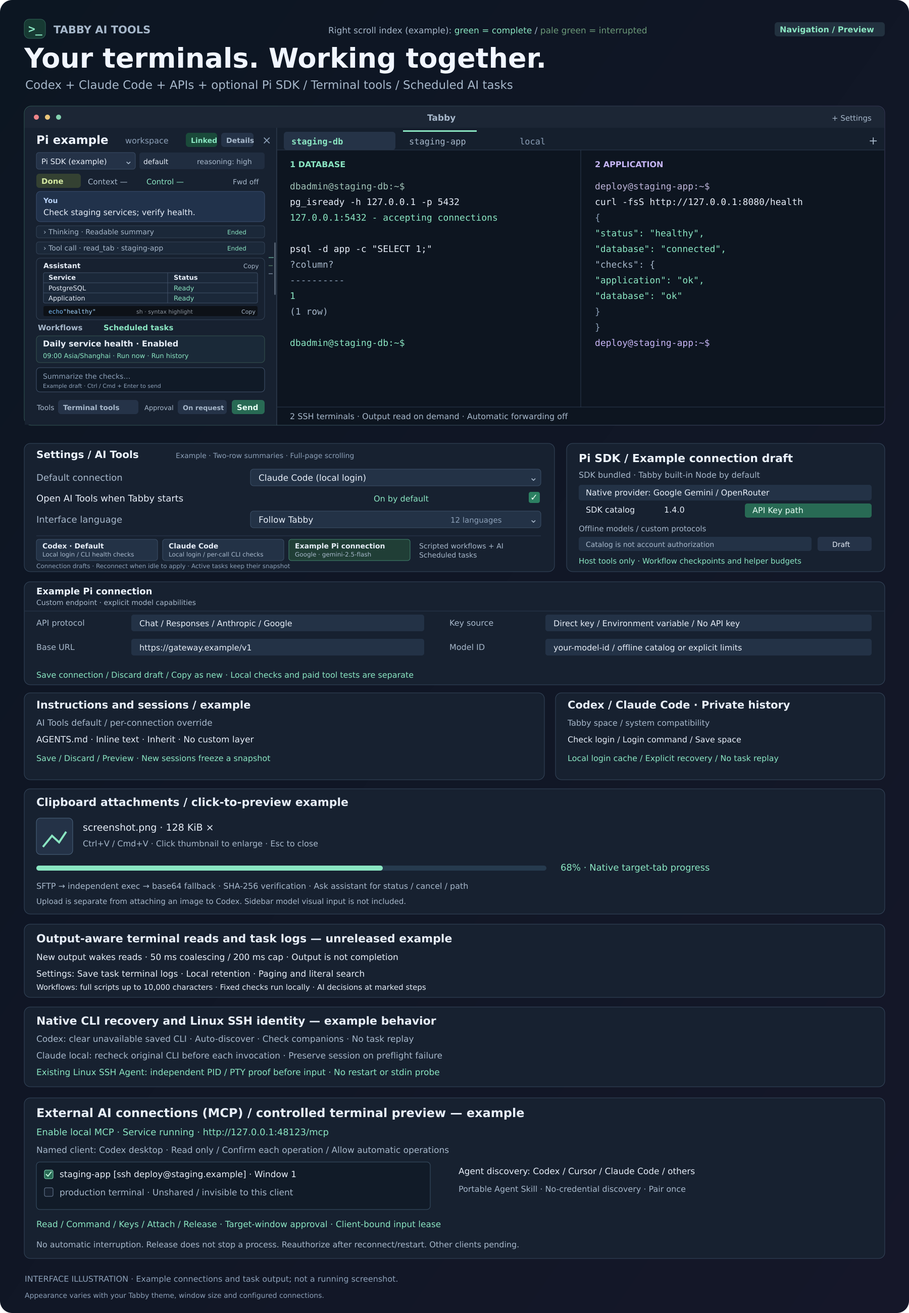
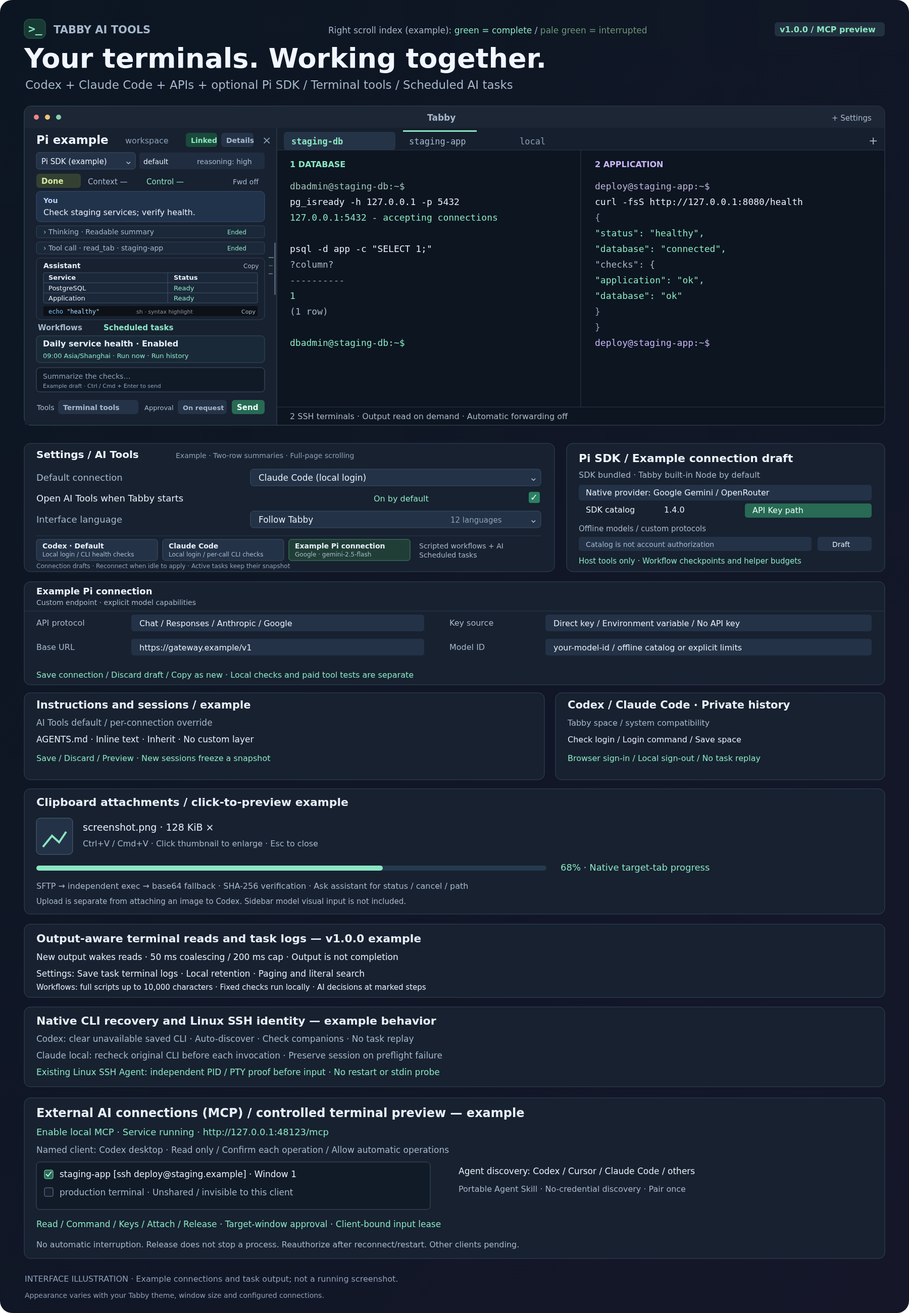
release: ship 1.0.0 MCP terminal connections and login fixes

diff --git a/test/session-space.test.js b/test/session-space.test.js
@@ -139,8 +139,9 @@ for (const engine of ['claude-code']) {
   })
 }
 
+const fixtureEpoch = Math.floor(Date.now() / 1000)
 function fixtureLogin (day, { user = 'same-user', account = 'same-workspace', owner = 'original-grant', expired = false } = {}) {
-  const claims = { 'https://api.openai.com/auth': { chatgpt_user_id: user }, exp: Math.floor(Date.now() / 1000) + (expired ? -60 : 3600), jti: day }
+  const claims = { 'https://api.openai.com/auth': { chatgpt_user_id: user }, exp: fixtureEpoch + (expired ? -60 : 3600), jti: day }
   return { auth_mode: 'chatgpt', tokens: { access_token: 'jwt.' + Buffer.from(JSON.stringify(claims)).toString('base64url') + '.fixture',
     refresh_token: 'fixture-refresh-' + day, login_owner_id: owner, account_id: account }, last_refresh: `2026-01-0${day}T00:00:00Z` }
 }
@@ -244,6 +245,36 @@ readline.createInterface({ input: process.stdin }).on('line', line => {
   assert.deepEqual(JSON.parse(await fs.promises.readFile(system, 'utf8')), fixtureLogin(3))
   await assert.rejects(client.refreshAuthentication(executable, a), /没有可用的更新凭据/)
   assert.equal(JSON.parse(await fs.promises.readFile(path.join(a.native, 'auth.json'))).tokens.access_token, 'private-login')
+})
+
+test('Codex browser login handles completion in the same stdout chunk as the start reply', async t => {
+  const root = await temporary(t)
+  t.mock.method(require('../src/codex-discovery.ts'), 'resolveCodexLaunch', async executable => ({ executable, env: { ...process.env, CODEX_HOME: root } }))
+  const executable = await launcher(root, 'fixture-login', `
+const readline = require('node:readline')
+readline.createInterface({ input: process.stdin }).on('line', line => {
+  const msg = JSON.parse(line)
+  if (msg.id === undefined) return
+  const result = msg.method === 'account/login/start' ? { loginId: 'immediate', authUrl: 'https://auth.openai.com/authorize' } : msg.method === 'account/read' ? { account: { type: 'chatgpt' } } : {}
+  const replies = [{ id: msg.id, result }]
+  if (msg.method === 'account/login/start') replies.push({ method: 'account/login/completed', params: { loginId: 'immediate', success: true } })
+  process.stdout.write(replies.map(value => JSON.stringify(value)).join('\\n') + '\\n')
+})`)
+  const client = new CodexClient(), controller = new AbortController()
+  t.after(() => client.close())
+  const deadline = setTimeout(() => controller.abort(), 15000)
+  t.after(() => clearTimeout(deadline))
+  const space = resolveSessionSpace(root, 'codex', privateSpaceConfig('codex'))
+  let opened = 0
+  await client.signIn(executable, space, () => opened++, controller.signal)
+  assert.equal(opened, 1)
+  assert.equal(controller.signal.aborted, false)
+  assert.equal(await fs.promises.readFile(path.join(space.native, '.tabby-codex-local-login'), 'utf8'), '1')
+  clearTimeout(deadline)
+  const cancelled = new AbortController()
+  const other = resolveSessionSpace(root, 'codex', { mode: 'tabby', spaceId: 'c'.repeat(32) })
+  await assert.rejects(client.signIn(executable, other, () => cancelled.abort(), cancelled.signal), /cancelled/)
+  assert.equal(fs.existsSync(path.join(other.native, '.tabby-codex-local-login')), false, 'cancellation wins even if completion was already received')
 })
 
 test('Claude auth and inference use the same private space; restart resumes there and foreign IDs are rejected', async t => {

diff --git a/src/codex-client.ts b/src/codex-client.ts
@@ -84,10 +84,17 @@ export class CodexClient extends EventEmitter {
     await this.connect(executable, space, this.capabilities)
     if (signal.aborted) throw new Error('Codex login cancelled.')
     let loginId: string | undefined
+    const earlyCompletions = new Map<string, boolean>()
     let finish!: (result: boolean) => void
     const completed = new Promise<boolean>(resolve => { finish = resolve })
     const onEvent = ({ method, params }: RpcMessage) => {
-      if (method === 'account/login/completed' && loginId && params?.loginId === loginId) finish(params.success === true)
+      if (method !== 'account/login/completed' || typeof params?.loginId !== 'string') return
+      if (loginId) {
+        if (params.loginId === loginId) finish(params.success === true)
+      } else if (earlyCompletions.size < 8) {
+        // readline may deliver both lines before the start request's await resumes.
+        earlyCompletions.set(params.loginId, params.success === true)
+      }
     }
     const cancel = () => finish(false)
     this.on('event', onEvent)
@@ -97,11 +104,13 @@ export class CodexClient extends EventEmitter {
     try {
       const attempt = await this.request('account/login/start', { type: 'chatgpt' })
       if (typeof attempt?.loginId === 'string' && attempt.loginId) loginId = attempt.loginId
+      if (loginId && earlyCompletions.has(loginId)) finish(earlyCompletions.get(loginId)!)
+      earlyCompletions.clear()
       let url: URL
       try { url = new URL(attempt?.authUrl) } catch { throw new Error('Invalid Codex login URL.') }
       if (!loginId || url.protocol !== 'https:' || url.origin !== 'https://auth.openai.com' || url.username || url.password) throw new Error('Invalid Codex login URL.')
       if (!signal.aborted) openBrowser(url.href)
-      if (!await completed) throw new Error(signal.aborted ? 'Codex login cancelled.' : 'Codex login was not completed.')
+      if (!await completed || signal.aborted) throw new Error(signal.aborted ? 'Codex login cancelled.' : 'Codex login was not completed.')
       loginId = undefined
       await preferLocalCodexLogin(space)
       await this.verifyChatgptLogin()

diff --git a/test/release-publishing.test.js b/test/release-publishing.test.js
@@ -38,7 +38,8 @@ test('release artifact identity cannot redirect publication or add installation 
 
 test('release artifacts reject traversal and local instructions or research', async () => {
   const { verifyArchiveNames } = await policy
-  const files = ['package.json', 'dist/index.js', 'dist/pi/sidecar.mjs', 'dist/pi/electron-host.cjs', 'dist/pi/THIRD_PARTY_NOTICES.txt', 'README.md', 'README.zh-CN.md', 'docs/assets/overview.png', 'docs/assets/overview.svg', 'docs/assets/robot-multitask.gif', 'docs/assets/robot-multitask.png', 'skills/tabby/SKILL.md'].map(name => 'package/' + name)
+  const files = ['package.json', 'dist/index.js', 'dist/pi/sidecar.mjs', 'dist/pi/electron-host.cjs', 'dist/pi/THIRD_PARTY_NOTICES.txt', 'dist/mcp/utility.cjs', 'dist/mcp/electron-host.cjs', 'dist/mcp/THIRD_PARTY_NOTICES.txt', 'skills/tabby-mcp/SKILL.md', 'skills/tabby-mcp/references/connection.md', 'README.md', 'README.zh-CN.md', 'docs/assets/overview.png', 'docs/assets/overview.svg', 'docs/assets/robot-multitask.gif', 'docs/assets/robot-multitask.png', 'skills/tabby/SKILL.md'].map(name => 'package/' + name)
   verifyArchiveNames(files)
+  for (const file of files.filter(name => name.includes('/mcp/') || name.includes('/tabby-mcp/'))) assert.throws(() => verifyArchiveNames(files.filter(name => name !== file)), /Missing artifact/)
   for (const entry of ['../package.json', 'package/../credentials', 'package/AGENTS.md', 'package/research/plan.md', 'package/.npmrc', 'package/docs/provider-roadmap.md', 'package/node_modules/example/package.json']) assert.throws(() => verifyArchiveNames([...files, entry]))
 })

diff --git a/test/mcp.test.js b/test/mcp.test.js
@@ -198,6 +198,25 @@ test('HTTP gates enforce token, exact host/origin, body limits and concurrent re
   f.terminal.session.output$.next('release concurrent observations')
   await Promise.all(pending)
 })
+test('oversized chunked HTTP bodies return 413 without resetting the connection', async t => {
+  const f = await httpFixture(t)
+  const status = await new Promise((resolve, reject) => {
+    const req = http.request(f.url, { method: 'POST', headers: { authorization: `Bearer ${f.grant.token}`, 'content-type': 'application/json', accept: 'application/json, text/event-stream' } }, res => {
+      res.resume(); res.once('end', () => resolve(res.statusCode))
+    })
+    req.once('error', reject)
+    req.write('x'.repeat(512 * 1024))
+    req.write('x'.repeat(512 * 1024))
+    req.write('x')
+    // Leave the request incomplete when the adapter detects the limit. Its
+    // default async iterator otherwise destroys the socket before 413 flushes.
+    const finish = setTimeout(() => req.end('tail'), 30)
+    t.after(() => clearTimeout(finish))
+  })
+  assert.equal(status, 413)
+  assert.equal(value(await f.client.callTool({ name: 'get_capabilities', arguments: {} })).mode, 'read_only')
+})
+
 test('legacy cancellation still reaches a full observation quota without cancelling other clients with the same RPC ID', async t => {
   const f = await httpFixture(t)
   const other = await f.connect(f.second.token)

diff --git a/README.md b/README.md
@@ -18,7 +18,9 @@
 
 </div>
 
-**v0.9.4: conversation navigation and safer CLI recovery.** The shared Agent panel has a question index in the right scrollbar strip: hover or focus to preview a question, click to jump, and use “latest” to resume streaming follow. The centered, compact 1px lines share an 18px right strip with a draggable conversation scroll thumb, freeing the former left gutter. Previews open to the left; theme-aware ↑ / ↓ buttons appear when needed. Green means confirmed completion; pale green means an ordinary interruption without a user Stop. Blue means running or waiting for an external prerequisite. Red means a confirmed user Stop, unfinished task, or execution limit. Completed turns wait for goal confirmation; automatic continuation returns to blue. History with no known execution result remains neutral.
+**v1.0.0: external MCP terminal connections, faster reads and private Codex sign-in.** Connect local AI clients to explicitly shared terminals with read-only or controlled input permissions. Terminal snapshots wake on fresh output; private Codex spaces support browser sign-in and bounded login-cache recovery without replaying tasks. [Release notes](docs/releases/1.0.0.md).
+
+**Conversation navigation and CLI recovery.** The shared Agent panel has a question index in the right scrollbar strip: hover or focus to preview a question, click to jump, and use “latest” to resume streaming follow. The centered, compact 1px lines share an 18px right strip with a draggable conversation scroll thumb, freeing the former left gutter. Previews open to the left; theme-aware ↑ / ↓ buttons appear when needed. Green means confirmed completion; pale green means an ordinary interruption without a user Stop. Blue means running or waiting for an external prerequisite. Red means a confirmed user Stop, unfinished task, or execution limit. Completed turns wait for goal confirmation; automatic continuation returns to blue. History with no known execution result remains neutral.
 
 <br>
 
@@ -40,7 +42,7 @@ Tabby AI Tools is an AI assistant inside [Tabby](https://github.com/Eugeny/tabby
 
 <sub>Interface illustration with example tasks and connections; appearance varies with your Tabby theme and window size.</sub>
 
-Thinking and tool activity stream into collapsed entries in the conversation. Expand an entry to inspect the text returned by the service, tool arguments and results; replies stay visible. **Unreleased source improvement:** default terminal reads return early on new output, including unread output received after the task's input and before the read, or reliable shell completion. Output alone does not mark a command complete; multiline scripts keep their input lock. See [terminal waiting](docs/terminal-logs.md). Thinking entries appear only after readable text arrives; Codex and supported OpenAI reasoning requests enable summaries. Selecting and copying sidebar text does not send Ctrl+C to the active terminal.
+Thinking and tool activity stream into collapsed entries in the conversation. Expand an entry to inspect the text returned by the service, tool arguments and results; replies stay visible. **v1.0.0 terminal reads:** default terminal reads return early on new output, including unread output received after the task's input and before the read, or reliable shell completion. Output alone does not mark a command complete; multiline scripts keep their input lock. See [terminal waiting](docs/terminal-logs.md). Thinking entries appear only after readable text arrives; Codex and supported OpenAI reasoning requests enable summaries. Selecting and copying sidebar text does not send Ctrl+C to the active terminal.
 
 **Fixed in v0.7.1:** Windows default discovery compares installed Codex CLI versions, so an older PATH entry no longer hides a newer desktop installation. Desktop upgrade paths recover automatically. See the [release notes](docs/releases/0.7.1.md).
 
@@ -109,6 +111,8 @@ When elevated access is needed, manually run `sudo ls` or `sudo -v` in the same 
 
 3. AI Tools opens automatically when Tabby starts, using **Codex (local login)** by default. Reconnect after logging in to the selected space, then choose a model available to your account or use the Codex default.
 
+For a private Codex space, the connection menu also offers official browser sign-in and local sign-out. Automatic cache recovery accepts only a newer imported credential for the same user/workspace; explicit sign-in or sign-out disables imports. Tasks are never resent.
+
 Only your computer needs this Codex installation and login. The assistant can then use your existing Tabby SSH terminals to work on servers; those servers do not need their own ChatGPT login or AI Agent installation.
 
 Automatic discovery covers standalone installations (including `CODEX_INSTALL_DIR` and `CODEX_HOME/packages/standalone/current/bin`), Homebrew and npm global prefixes, and compatible Codex binaries in VS Code extensions as a final fallback. On macOS, it checks `ChatGPT.app/Contents/Resources/codex-cli/bin/codex` and the older `Contents/Resources/codex` entry under `/Applications` and `~/Applications`, including the former `Codex.app` name. For other locations, set the full path in **Settings → AI Tools → Codex CLI executable**. See the [discovery matrix (中文)](docs/guide.md#cli-自动发现与启动排查).
@@ -137,7 +141,7 @@ Use `/schedules` to inspect plans and run records, pause or resume, run immediat
 
 ## Install and start
 
-**Unreleased source preview — external MCP:** Settings → AI Tools → External AI connections (MCP) exposes explicitly selected terminals to local clients. Clients start read-only; choose per-operation confirmation or automatic operations to use `send_input`, `send_keys`, `attach_process` and `release_tab`. Input shares the sidebar/scheduler controller, never automatically interrupts a foreground task, and uses client-bound leases. Revocation or lease expiry releases input without killing a command. It uses Tabby's runtime and works with the sidebar closed; configuration snippets are merged manually. Linux Tabby/Codex read-only acceptance is recorded; controlled-input validation and remaining platform/client boundaries are detailed in the guide. This preview is not included in published 0.9.4. [Setup and limits](docs/mcp.md). A portable `tabby-mcp` Agent Skill helps local agents find the service and pairing route; it does not configure or authorize an MCP client.
+**External MCP (v1.0.0, controlled-input preview):** Settings → AI Tools → External AI connections (MCP) exposes explicitly selected terminals to local clients. Clients start read-only; choose per-operation confirmation or automatic operations to use `send_input`, `send_keys`, `attach_process` and `release_tab`. Input shares the sidebar/scheduler controller, never automatically interrupts a foreground task, and uses client-bound leases. Revocation or lease expiry releases input without killing a command. It uses Tabby's runtime and works with the sidebar closed; configuration snippets are merged manually. Linux Tabby/Codex read-only acceptance is recorded; controlled-input validation and remaining platform/client boundaries are detailed in the guide. Included in v1.0.0. [Setup and limits](docs/mcp.md). A portable `tabby-mcp` Agent Skill helps local agents find the service and pairing route; it does not configure or authorize an MCP client.
 
 1. In Tabby, open **Settings → Plugins**, find **`tabby-ai-tools`**, and install it. Click Tabby's **Restart the app to apply changes** prompt when ready; installations and updates take effect after the restart.
 2. Use your local Codex login, or add an API connection under **Settings → AI Tools**.

diff --git a/docs/development.md b/docs/development.md
@@ -223,7 +223,7 @@ See [installation recovery and SSH process identity](codex-installation-recovery
 
 `agent-conversation-state.ts` resolves task evidence separately from transport status. Ordinary interruptions are pale green; only confirmed user Stop, unfinished goals and execution limits are red. Completed turns await goal observation; external blockers are blue. API turns retain typed termination causes; Claude native result subtypes identify execution limits. Snapshots use v2 storage with v1 fallback, downgrading unclassified legacy failures. Goal reads are guarded against later turns and goal events; navigation does not invoke providers or replay tools.
 
-## MCP 终端预览开发增量（未发布）
+## MCP 终端预览开发增量（v1.0.0）
 
 `runtime/mcp` 独立于 Angular TS 4.9，使用 `typescript-pi` 对应的 TS 5.9 做类型检查。`scripts/build-mcp.mjs` 将官方 SDK server/core、Node adapter 和 schema 依赖打入 `dist/mcp/utility.cjs`，main 协调器为 `electron-host.cjs`，附上 `THIRD_PARTY_NOTICES.txt`；生产包不安装 SDK，也没有新增安装脚本。`mcp:build` 纳入 build/pretest；MCP 运行在 Electron utilityProcess，PATH 为空，没有系统 Node 回退。
 
@@ -231,7 +231,7 @@ main 从 Tabby 主进程的 `TABBY_CONFIG_DIRECTORY`（缺省 userData）取 can
 
 `src/mcp.service.ts` 从模块启动，设置关闭时不监听网络；`mcp-terminals.ts` 按授权引用计数 watch/unwatch 并取消等待。`mcp-settings.*` 是现有 Settings 内的可折叠分组；`mcp-client-config.ts` 仅生成复制预览，不写客户端文件。新增 MCP 界面文案在简体中文以外可使用英文回退，既有语言选择与翻译不变。权限与端口写入私有文件，终端范围不跨重启恢复。
 
-`test/mcp.test.js` 覆盖官方 SDK 实际 HTTP 和真实输出服务，`mcp-electron.test.js` 覆盖可信路由／双窗口／崩溃／端口与撤销竞态；它们不能替代真实桌面。Linux Tabby/Codex 无模型真实终端闭环已取得；真实 Cursor／Claude、Windows/macOS、SSH 和旧宿主待补。更新后的 overview 是示意图，明确标注未发布与示例，不能冒充运行截图。
+`test/mcp.test.js` 覆盖官方 SDK 实际 HTTP 和真实输出服务，`mcp-electron.test.js` 覆盖可信路由／双窗口／崩溃／端口与撤销竞态；它们不能替代真实桌面。Linux Tabby/Codex 无模型真实终端闭环已取得；真实 Cursor／Claude、Windows/macOS、SSH 和旧宿主待补。更新后的 overview 是示意图，明确标注版本与示例，不能冒充运行截图。
 
 main 的 confirm/auto 权限以客户端绑定所选目标；重启回到 read_only。输入预约和 lease 在 main 同步创建，批准等待不占用 IPC 串行控制队列。目标窗口可批准／拒绝具体参数，25 秒超时；120 秒输入空闲 lease 自动释放。取消、撤销、范围／模式／会话变化、停止或崩溃清观察和 lease，通过独立 release 消息还原 renderer 控制，不发 Ctrl+C、不重放。客户端不能提供 owner、内部 tabId、sudo、foreground takeover 或日志 scope。33 秒总观察预算含批准等待，晚批准可能得到 unknown_outcome；不得将“已发送”当作命令完成。
 renderer 同时持有独立 lease 截止计时器：即使 main 无法再投递 release/state，输入控制也会在本地截止时解除；续期只使用 main 签发的 expiresAt。
@@ -239,3 +239,7 @@ renderer 同时持有独立 lease 截止计时器：即使 main 无法再投递 
 输出遮蔽先作用于完整快照；若正文被替换，则省略 interaction 元数据，不能对高亮片段分别调用有状态的 sanitizeView。utility 对已转发的四类写操作在总截止、取消或父通道断开时返回 unknown_outcome；HTTP 边界也将写入 observation_timeout／cancelled 保守映射为未知，只有明确的 main 拒绝保留具体原因。回归覆盖附件重复快照／其他读取者先识别 footer，以及两代真实 HTTP 协议经过 main 的晚批准、丢失 renderer 回复、清理租约和不重放；合成终端与宿主 fixture 不代表实机验证。
 
 `runtime/mcp/discovery.cts` 管理独立标准 Agent Skill 的首次发现安装及无凭据位置记录。以 main 的真实 home/config-space 为准，绝不接受 HTTP 传入用户目录；同名已有技能只比较不覆盖。复制支持文件后最后写 SKILL.md，独占创建冲突不覆盖用户文件。每配置空间独立 hash 记录，内容白名单不含客户端摘要／凭据或目标范围；状态未变不写盘。发现写入失败与 MCP 生命周期分开，不修改授权，不注册客户端。设置页提供重试／检查，自定义技能路径仍手动导入。
+
+### v1.0.0 review fixes
+
+Codex browser sign-in retains completion notifications received before the login-start await resumes, including a reply and notification in one stdout chunk. Cancellation still prevents accepting a completed login. MCP HTTP body iteration retains the socket on early body-limit exit and drains unread bytes after the adapter responds, so oversized requests can receive HTTP 413 rather than a connection reset. Regressions cover real fixture subprocess output and known-length/chunked HTTP requests; these do not establish real account or desktop acceptance.

diff --git a/docs/releases/unreleased.md b/docs/releases/unreleased.md
@@ -1,23 +1,3 @@
 # Unreleased
 
-## Terminal observation latency
-
-- Default internal terminal snapshots wake on unread output after the task's input or reliable shell completion, including output received before the read. Render/burst coalescing is about 50 ms, capped at 200 ms for continuous output; explicit zero and quiet-terminal wait limits are preserved.
-- Output does not mark completion or release multiline ownership. Per-owner observation baselines rearm before stdin/keys; cancellation and session changes clean up listeners without replaying input. Snapshot results include wakeReason/waitedMs, and cwd/process metadata reads run concurrently.
-- Updated model guidance to prefer cursor-based deltas for non-interactive output and snapshots for prompts. Bilingual README, guide, operation skill and SVG/PNG illustration describe the source-only change. Native Codex exec_command timing and model/network latency are outside this optimization.
-
-- Fixed attachment masking in external MCP snapshots: masked snapshots omit cursor/highlight metadata so styled payload text cannot bypass the mask, including repeated reads.
-- Fixed forwarded MCP writes reporting observation timeouts as proof that no input was sent. Deadline expiry, cancellation and parent-channel loss now preserve `unknown_outcome`; explicit approval denials remain distinguishable, and lost replies never trigger a replay.
-
-- Bundled a portable `tabby-mcp` Agent Skill for external MCP clients, with user-scope discovery installation, a shared Codex/Cursor root and existing Claude directory adapter and a Settings check/retry action. Credential-free per-profile records locate the service; pairing, authentication and terminal grants remain explicit. Existing skills and client configurations are preserved.
-
-- Added opt-in external MCP command and interaction tools (`send_input`, `send_keys`, `attach_process`, `release_tab`). Clients remain read-only until explicitly granted confirm/auto mode; target-window approvals, client-bound expiring leases, shared sidebar/scheduler ownership and final send checks prevent implicit takeover. Cancellation/release never kills a command and unknown outcomes must not be replayed. New shell commands require verified idle process inspection; ordinary SSH shell execution remains blocked.
-- Updated bilingual setup, model guidance and the SVG/PNG illustration for the controlled-input preview; real client/platform evidence remains scoped separately from fixtures.
-
-- Hardened MCP fault paths: background startup failures retain terminal registration; failed IPC settles observations and revokes unreachable windows; utility errors wait for actual exit before replacement, with a bounded shutdown deadline. Settings reconcile failed changes and discard late credentials for a removed client; terminal metadata refreshes no longer lose a trailing update. Failed partial state writes clean up their temporary files.
-- Fixed legacy HTTP cancellation across the SDK's per-request compatibility instances. Cancellation is scoped to the authenticated client/revision, with bounded HTTP control capacity reserved alongside the 4/16 tool-observation limits.
-
-- Added a default-off local MCP service with read-only initial grants in Settings → AI Tools → External AI connections (MCP), with independent named credentials, explicit terminal scopes, immediate revocation/rotation and copy-only Codex/Cursor/Claude configuration previews.
-- Connected the production HTTP → Electron main → renderer path to real terminal snapshots, client-bound deltas and bounded waits. Output subscriptions work with the sidebar closed. No command-input or takeover tools are exposed, and concrete scopes clear on reconnect/restart.
-- Bundled the SDK into an Electron utility runtime, using the host's Node with no system Node dependency. Added protocol, authorization, lifecycle and routing regression coverage, plus bilingual documentation and updated SVG/PNG illustrations.
-- Verified real terminal reads and controlled command/release through Codex CLI on Linux Tabby without a model request. Cursor/Claude client acceptance, other desktops, SSH and automatic client config installation remain pending. This source preview has not been published; the 0.9.4 Registry package is unchanged.
+No additional changes after [v1.0.0](1.0.0.md).

diff --git a/VALIDATION.md b/VALIDATION.md
@@ -516,3 +516,16 @@ Regressions cover confirmed user Stop versus ordinary interruption, Stop failure
 Node 22.23.4 release checks pass: skill bundle/check, typecheck, 997 tests (991 passed, six platform skips, zero failures), production webpack/Pi build and `git diff --check`. A separate 91-test Codex/Claude CLI and runtime selection covers default discovery, removed selectors, update paths, authenticated loopback MCP, stop, session retention and no replay with zero failures. Chromium rendered both READMEs, verified the animated robot and reduced-motion fallback, and regenerated the 1800×2250 overview PNG from the synchronized SVG without text overflow; the final image was visually inspected.
 
 The exact release tarball is checked for package identity, entrypoints, `dist`, docs, bilingual README, assets, bundled skill and private-file exclusions, then installed with lifecycle scripts enabled and no `node` on `PATH`. Release-script state, logs, tarball path and its final SHA-256 remain outside the repository under `/tmp/tabby-release-0.9.4-20261111/`; the GitHub Release records the immutable artifact digest. No paid-model inference or new real-account request was run. Real Tabby desktop, Windows/macOS desktop, user SSH and OS-keychain-only Claude login remain pending; Linux/macOS/Windows CI is tracked separately before tag and publication.
+
+
+## 1.0.0 release review — 2026-11-14
+
+Reviewed the changes since v0.9.4: external MCP permissions, input leases, cancellation/unknown outcomes, terminal observation and private Codex authentication. Fixed same-chunk browser-login completion handling and HTTP body-limit socket lifetime. Added mandatory MCP runtime/skill archive checks and stabilized token-expiration fixtures. The login regression failed before the product fix; the existing main macOS CI run 43590428607 failed on oversized HTTP handling. The first local full run exposed the separate fixture clock issue, which was fixed before the final run.
+
+Final Linux / Node 22.23.4 regression: **1082 tests, 1076 passed, six platform skips, zero failures/cancellations**. Skill bundle/check, TypeScript, production build (webpack + Pi + MCP), and diff checks passed. Evidence: `/tmp/tabby-release-1.0.0/`, including `tests-final.log`, `typecheck-final.log`, `build.log` and `render-final.log`. Chromium rendered both READMEs, verified centered titles, images, tables, robot GIF and reduced-motion static fallback; SVG text remains in bounds and the full 1800×2600 PNG was previewed. Robot GIF retains 12 frames.
+
+An isolated official Linux Tabby 1.0.238 (Electron 43.7.0 / Node 24.21.0) loaded this built plugin, started the actual MCP utility using the host Node, enforced known-length/chunked HTTP 413 responses, sent a harmless command to a fresh real terminal, read the result, released input and stopped the service/listener. No model request was made. Desktop evidence: `desktop/evidence.json` in the same temporary evidence directory. This is Linux MCP runtime evidence, not real account inference or validation of every desktop feature.
+
+Codex default selection was reviewed separately: blank/`codex` discovery, update/deletion races, known companion layouts, bounded idle recovery and preserved sessions/no replay remain covered by subprocess regressions. The new login notification/cancellation test also uses a real fixture subprocess. Actual default Codex account/model/tool execution remains unverified this round. Claude local retains original-selector resolution before each invocation, native/npm launchers, capability/auth separation, MCP tools, process-tree cleanup and session preservation on preflight failure; its fixture regressions passed. Actual Claude account/keychain, Windows/macOS desktop and user SSH execution remain pending. No paid model smoke tests ran.
+
+The actual verified tarball, its checksum, no-system-Node install result and exact branch/tag Linux/macOS/Windows CI links are recorded in the GitHub Release and local release evidence. Registry completion must be established by version/latest/integrity readback; publication is not implied by this local validation snapshot. Local collaboration/research files remain excluded from Git and npm.

diff --git a/docs/releases/1.0.0.md b/docs/releases/1.0.0.md
@@ -1,0 +1,26 @@
+# v1.0.0
+
+## External MCP terminal connections
+
+- Optional loopback MCP service, disabled by default, running through Tabby's built-in Electron runtime without requiring system Node.js.
+- Named clients start read-only with no terminal access. Explicit grants enable snapshots, client-bound incremental cursors and bounded output waits, independently of the sidebar.
+- Controlled input preview: `send_input`, `send_keys`, `attach_process` and `release_tab` use per-operation confirmation or explicit automatic permission, expiring client-bound leases and the shared terminal controller. No automatic interruption or replay; an unknown outcome requires reading the terminal before continuing.
+- Portable `tabby-mcp` Agent Skill and credential-free service discovery assist pairing. Client configuration and authorization remain explicit. Credentials rotate and revoke independently; terminal scopes clear on restart/reconnect.
+
+## Faster observation and private Codex login
+
+- Default terminal snapshots wake on unread output or reliable shell completion, with 50 ms burst coalescing and a 200 ms continuous-output cap. Output alone does not prove completion or release multiline input ownership.
+- Private Codex spaces offer official browser sign-in and local sign-out. Imported cache recovery requires newer credentials for the same user and workspace; explicit private sign-in/sign-out disables imports. History is retained and tasks are never resent.
+- Fixed a browser-login race where a completion notification in the same stdout chunk as the start reply was lost.
+- Fixed oversized MCP HTTP body handling so the adapter can flush HTTP 413 without its request iterator destroying the connection first. Unread bytes are drained and request timeouts remain bounded.
+- Release artifact validation now requires the MCP runtime, notices and portable skill, alongside the existing Pi runtime checks.
+- Stabilized authentication fixtures by using one token-expiration baseline across cache comparisons.
+- Includes attachment highlight masking and conservative unknown-outcome handling for interrupted external MCP writes.
+
+## Documentation and validation
+
+Bilingual READMEs, setup/development guides, operation skills and synchronized overview SVG/PNG describe the 1.0.0 behavior. The overview is an illustration with example content; the robot animation and reduced-motion static fallback are retained. ChatGPT login and entitlement guidance was checked against the official authentication documentation.
+
+Required local checks: skill bundle/check, TypeScript, the full regression suite, production build, diff checks, actual tarball inspection and installation with no `node` on PATH and lifecycle scripts enabled. Exact results are recorded in `VALIDATION.md`; the GitHub Release records branch/tag Linux/macOS/Windows CI and the verified tarball SHA-256.
+
+Real Linux Tabby/Codex MCP reads and controlled command/release have earlier no-model acceptance evidence. This release review also verifies actual Linux Tabby/Electron MCP startup, HTTP body limits, a harmless real-terminal command/read/release and service shutdown. It adds no paid model calls or real account inference; other behavior uses subprocess, HTTP and host fixtures. Actual Cursor/Claude MCP clients, Windows/macOS desktops, old hosts, user SSH execution and Codex/Claude account end-to-end validation remain pending. Ordinary SSH shell command input remains blocked when idle process identity cannot be verified. Public/LAN access, OAuth server, external logs/workflows and automatic client configuration are outside the shipped scope.

diff --git a/docs/terminal-logs.md b/docs/terminal-logs.md
@@ -1,6 +1,6 @@
 # Terminal streaming and task logs
 
-**Unreleased source improvement:** default `read_tab` snapshots wake on new output or reliable shell completion, with about 50 ms for rendering/burst coalescing and a 200 ms coalescing cap for continuous output. A task also sees unread output received after its own input and before the read; a successful snapshot advances that task's observation baseline. Other observers do not consume this baseline, and stdin/keys rearm it. No output means waiting up to `waitMs` (default 1000 ms when controlled, otherwise 0); explicit zero remains immediate. Snapshot `wakeReason` and `waitedMs` explain the wait. Output is not completion: multiline batches retain ownership even at intermediate prompts. Explicit `waitFor` and delta cursors keep their existing policies.
+**Available in v1.0.0:** default `read_tab` snapshots wake on new output or reliable shell completion, with about 50 ms for rendering/burst coalescing and a 200 ms coalescing cap for continuous output. A task also sees unread output received after its own input and before the read; a successful snapshot advances that task's observation baseline. Other observers do not consume this baseline, and stdin/keys rearm it. No output means waiting up to `waitMs` (default 1000 ms when controlled, otherwise 0); explicit zero remains immediate. Snapshot `wakeReason` and `waitedMs` explain the wait. Output is not completion: multiline batches retain ownership even at intermediate prompts. Explicit `waitFor` and delta cursors keep their existing policies.
 
 `read_tab` reads the current screen by default. Use `mode="delta"` to read new terminal stream text, then pass the returned `nextCursor` unchanged on the next call. Start without a cursor to establish a baseline. Use `maxChars` (2–20,000) for bounded pages; follow `hasMore` before waiting again.
 

diff --git a/skills/tabby/references/operations.md b/skills/tabby/references/operations.md
@@ -152,4 +152,4 @@ With explicit confirm/auto permission, start an idle terminal command with send_
 
 Confirm mode shows exact arguments in the target window Settings, with a 25-second deadline; keep that section open. Auto mode uses the user's existing grant. Only one client/target lease exists; concurrent operations or sidebar/scheduler ownership conflicts return busy. A lease has 120 seconds of input inactivity; reads do not renew it. release_tab or the local release button only restores input, never stops a process. Mode/scope/session changes, cancellation, revocation/rotation, window closure and service failure remove approvals/leases. A response loss or timeout can follow an actual send: inspect the terminal, never replay. The 33-second observation budget includes approval time.
 
-No external logs, workflows, attachments, files or application settings mutations are exported. Loopback-only, same network namespace, Tabby built-in Electron Node; no public/LAN/OAuth/stdin bridge or automatic client installation. Actual evidence for read-only and controlled input is recorded separately; real Cursor/Claude, Windows/macOS/old hosts, user accounts and SSH must not be inferred from fixtures. Published 0.9.4 does not include this source preview. See docs/mcp.md.
+No external logs, workflows, attachments, files or application settings mutations are exported. Loopback-only, same network namespace, Tabby built-in Electron Node; no public/LAN/OAuth/stdin bridge or automatic client installation. Actual evidence for read-only and controlled input is recorded separately; real Cursor/Claude, Windows/macOS/old hosts, user accounts and SSH must not be inferred from fixtures. Available in v1.0.0; controlled terminal input remains a preview. See docs/mcp.md.
